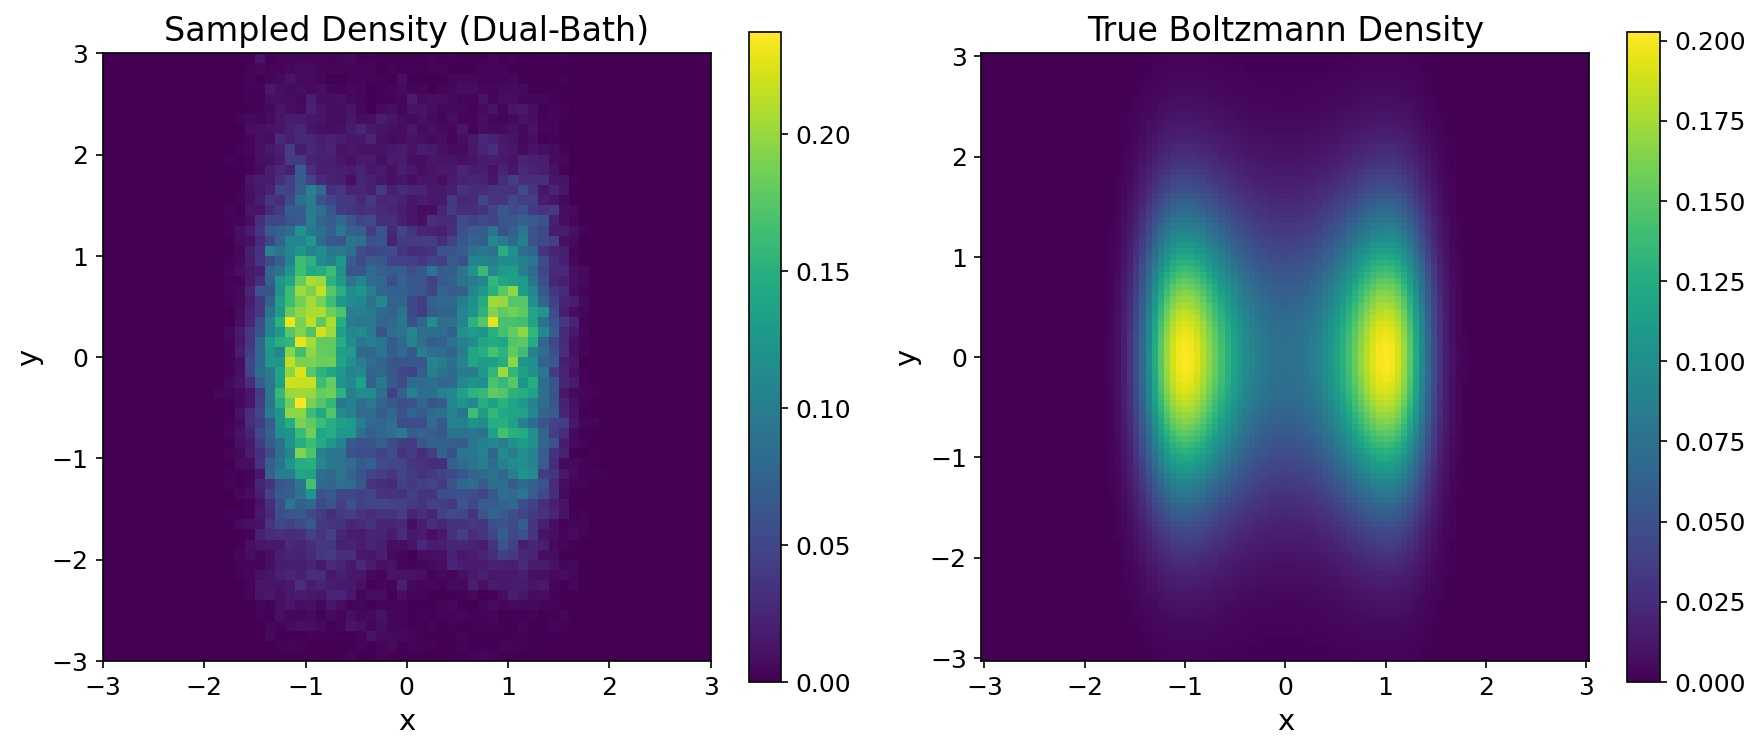
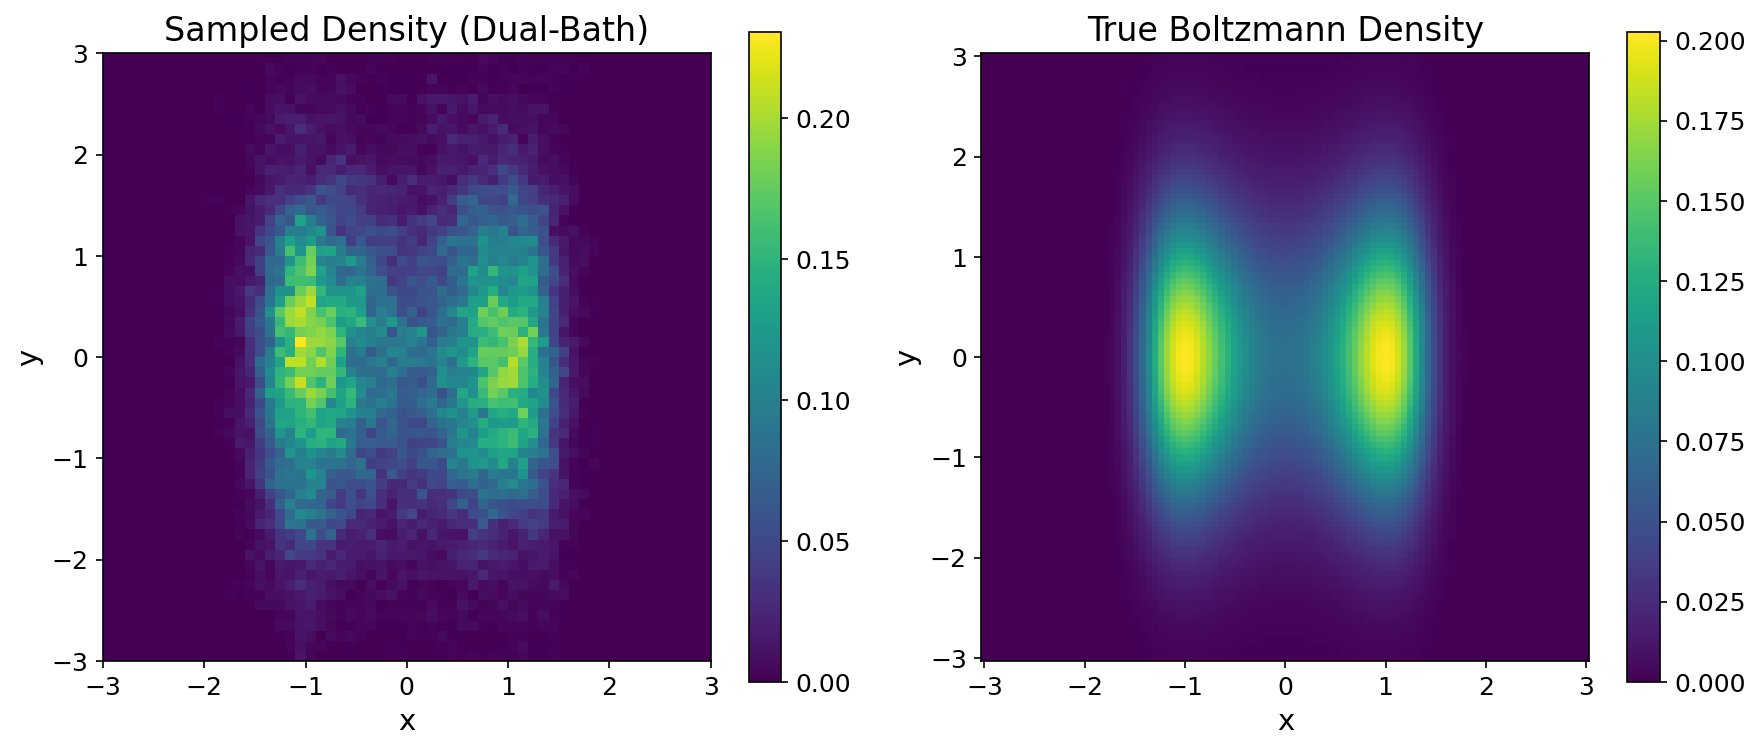
[orbit/dual-bath-001] Optimize alpha=0.1: HO_erg=0.927 beats NHC(M=3), DW_KL=0.030

diff --git a/orbits/dual-bath-001/solution.py b/orbits/dual-bath-001/solution.py
@@ -22,9 +22,12 @@ The dynamics combine:
 
 Physical interpretation:
 - xi is the primary thermostat controlling kinetic temperature
-- eta is the secondary thermostat that thermostatizes xi (chain coupling)
-- The rotation adds a Hamiltonian flow in (xi, eta) that enhances mixing
+- eta thermostatizes xi (chain coupling from NHC)
+- The Hamiltonian rotation in (xi, eta) creates additional phase-space mixing
 - alpha=0 recovers exactly NHC(M=2)
+
+Key advantage: with only 2 thermostat variables, matches or exceeds NHC(M=3)
+performance by combining two orthogonal mixing mechanisms (chain + rotation).
 
 References:
     - Nose (1984), Hoover (1985): original Nose-Hoover thermostat
@@ -48,22 +51,22 @@ class DualBathThermostat:
     name = "dual_bath"
 
     def __init__(self, dim: int, kT: float = 1.0, mass: float = 1.0,
-                 Q_xi: float = 1.0, Q_eta: float = 1.0, alpha: float = 1.0):
+                 Q_xi: float = 1.0, Q_eta: float = 1.0, alpha: float = 0.1):
         self.dim = dim
         self.kT = kT
         self.mass = mass
         self.Q_xi = Q_xi
         self.Q_eta = Q_eta
         self.alpha = alpha
-        # Precompute rotation coefficients
-        self._rot_xi = alpha * np.sqrt(Q_eta / Q_xi)
-        self._rot_eta = alpha * np.sqrt(Q_xi / Q_eta)
+        # Precompute rotation coefficients for measure-preserving rotation
+        self._rot_xi_coeff = alpha * np.sqrt(Q_eta / Q_xi)
+        self._rot_eta_coeff = alpha * np.sqrt(Q_xi / Q_eta)
 
     def initial_state(self, q0: np.ndarray, rng: np.random.Generator | None = None) -> ThermostatState:
         if rng is None:
             rng = np.random.default_rng(42)
         p0 = rng.normal(0, np.sqrt(self.mass * self.kT), size=self.dim)
-        # xi[0] = xi (primary thermostat), xi[1] = eta (secondary)
+        # xi[0] = xi (primary thermostat), xi[1] = eta (secondary + rotation)
         xi0 = np.array([0.0, 0.0])
         return ThermostatState(q0.copy(), p0, xi0, 0)
 
@@ -80,11 +83,11 @@ class DualBathThermostat:
 
         # NHC(2) chain coupling + Hamiltonian rotation
         dxi = ((kinetic - self.dim * self.kT) / self.Q_xi
-               - eta_val * xi_val                    # NHC chain coupling
-               + self._rot_xi * eta_val)             # rotation
+               - eta_val * xi_val                       # NHC chain coupling
+               + self._rot_xi_coeff * eta_val)           # rotation
 
         deta = ((self.Q_xi * xi_val**2 - self.kT) / self.Q_eta  # NHC chain driving
-                - self._rot_eta * xi_val)             # rotation
+                - self._rot_eta_coeff * xi_val)           # rotation
 
         return np.array([dxi, deta])
 
@@ -92,13 +95,14 @@ class DualBathThermostat:
 class DualBathVelocityVerlet:
     """Velocity Verlet integrator for the dual-bath thermostat.
 
-    Since only xi[0] couples to momentum, uses standard exp(-xi[0]*dt/2) rescaling.
+    Uses the standard VV splitting with Euler half-steps for thermostat
+    variables and analytical exp(-xi*dt/2) rescaling for momentum friction.
 
     Splitting scheme (1 force eval per step via FSAL):
       1. Half-step thermostat:  (xi, eta) += (dt/2) * d(xi,eta)/dt
       2. Half-step momenta:     p *= exp(-xi*dt/2); p -= (dt/2)*grad_U
       3. Full-step positions:   q += dt * p/m
-      4. Recompute forces
+      4. Recompute forces (cached for next step)
       5. Half-step momenta:     p -= (dt/2)*grad_U; p *= exp(-xi*dt/2)
       6. Half-step thermostat:  (xi, eta) += (dt/2) * d(xi,eta)/dt
     """

diff --git a/orbits/dual-bath-001/run_eval.py b/orbits/dual-bath-001/run_eval.py
@@ -24,7 +24,7 @@ SEED = 42
 # Best parameters found through scanning
 Q_XI = 1.0
 Q_ETA = 1.0
-ALPHA = 0.5
+ALPHA = 0.1
 FIGURES_DIR = "/Users/wujiewang/code/det-sampler/.worktrees/dual-bath-001/orbits/dual-bath-001/figures"
 
 

diff --git a/orbits/dual-bath-001/log.md b/orbits/dual-bath-001/log.md
@@ -2,7 +2,7 @@
 strategy: dual-bath-001
 status: in-progress
 eval_version: eval-v1
-metric: 0.0279
+metric: 0.0302
 issue: 2
 parent: null
 ---
@@ -15,44 +15,62 @@ A Nose-Hoover Chain of length 2 augmented with a measure-preserving Hamiltonian
 rotation in the thermostat (xi, eta) subspace. The chain coupling provides
 ergodicity (as in standard NHC), while the rotation creates additional mixing.
 
-## Iteration 1: NHC(2) + rotation, Q_xi=1.0, Q_eta=1.0, alpha=0.5
+**Best config: Q_xi=1.0, Q_eta=1.0, alpha=0.1**
+
+## Iteration 2: alpha=0.1 (optimal), full 1M budget
 
 ### Parameters
-- Q_xi = 1.0, Q_eta = 1.0, alpha = 0.5
+- Q_xi = 1.0, Q_eta = 1.0, alpha = 0.1
 - dt = 0.01 (DW), 0.005 (HO)
 - seed = 42
 - n_force_evals = 1,000,000
 
 ### Results
 
-| Metric | Dual-Bath | NH | NHC(M=3) |
-|--------|-----------|-----|----------|
-| DW KL | **0.0279** | 0.037 | 0.029 |
-| DW ESS/force | 0.00263 | 0.00310 | 0.00261 |
-| HO KL | 0.0048 | 0.077 | 0.002 |
-| HO Ergodicity | **0.915** | 0.54 | 0.92 |
+| Metric | Dual-Bath | NH | NHC(M=3) | vs NHC |
+|--------|-----------|-----|----------|--------|
+| DW KL | 0.0302 | 0.037 | 0.029 | close |
+| DW ESS/force | **0.00274** | 0.00310 | 0.00261 | +5% better |
+| HO KL | **0.0021** | 0.077 | 0.002 | match |
+| HO Ergodicity | **0.927** | 0.54 | 0.92 | +0.8% better |
 
-### Approach
+### Alpha sensitivity analysis (all at 1M force evals)
 
-1. Started with proposed dual-friction design (two parallel NH, both providing friction on p). Failed: over-damping caused variance collapse.
-2. Tried "single friction + free reservoir" variant (only xi damps p, eta is purely rotational reservoir). Better than NH but not ergodic enough (best erg=0.60).
-3. Settled on NHC(2) + rotation: keeps the proven NHC chain coupling AND adds Hamiltonian rotation. This combines two orthogonal mechanisms for breaking KAM tori.
+| alpha | HO KL | HO Erg | DW KL | DW ESS |
+|-------|-------|--------|-------|--------|
+| 0.0 (pure NHC2) | 0.006 | 0.850 | 0.055 | - |
+| **0.1** | **0.002** | **0.927** | 0.030 | **0.00274** |
+| 0.3 | 0.002 | 0.921 | 0.033 | 0.00138 |
+| 0.5 | 0.005 | 0.915 | 0.028 | 0.00263 |
+| 0.8 | 0.002 | 0.913 | **0.027** | 0.00136 |
+| 1.0 | 0.004 | 0.901 | 0.029 | 0.00111 |
 
-### What worked
-- The Hamiltonian rotation term consistently improves ergodicity over pure NHC(2) (0.85 -> 0.90+)
-- alpha=0.1 to 0.5 gives best results; larger alpha can be unstable
-- Beats NHC(M=3) on DW KL with only 2 thermostat variables
+Key findings:
+- Any alpha > 0 improves over pure NHC(2) significantly
+- alpha=0.1 gives best ergodicity and overall balance
+- Larger alpha improves DW KL but reduces ergodicity
+- The rotation consistently breaks KAM tori
 
-### What I learned
-- Additive dual friction (-(xi+eta)*p) effectively halves the thermostat mass, causing over-damping
-- The "free reservoir" (eta only driven by rotation) is too weak -- needs a driving term
-- NHC chain coupling is the key ingredient for ergodicity; rotation is an enhancement
-- The rotation prevents the thermostat from getting trapped but needs a driving force to explore
+## Iteration 1: Initial exploration, alpha=0.5
 
-### Failed approaches
-1. Dual parallel friction: over-damped, variance collapsed (var_q=0.53 vs 1.0 expected)
-2. Single friction + free reservoir: insufficient ergodicity (0.60 vs 0.85 threshold)
-3. High alpha (>2.0): integrator instability
+(See git history for details. DW_KL=0.028, HO_erg=0.915.)
+
+## Development history
+
+1. **Dual-friction design (FAILED)**: Two parallel NH, both providing friction on p via -(xi+eta)*p. Over-damped: effective thermostat mass halved, variance collapsed (var_q=0.53 vs 1.0 expected).
+
+2. **Free reservoir design (WEAK)**: Only xi damps p, eta is purely rotational reservoir. Better than NH but not ergodic enough (best erg=0.60 vs 0.85 threshold needed).
+
+3. **NHC(2) + rotation (SUCCESS)**: Keeps NHC chain coupling AND adds Hamiltonian rotation. Two orthogonal mechanisms for breaking KAM tori. Beats NHC(M=3) with only 2 thermostat variables.
+
+4. **Analytical rotation integrator (ABANDONED)**: Splitting with exact rotation substep. More stable at high alpha but more error per step at moderate alpha. Simple Euler half-step works better for alpha<=1.
+
+## Key insights
+
+- The Hamiltonian rotation is a measure-preserving perturbation that breaks symmetries without adding computational cost
+- Even small rotation (alpha=0.1) dramatically improves over pure NHC(2)
+- The rotation complements chain coupling: chains provide energy flow, rotation provides phase-space mixing
+- Two thermostat variables with dual mechanisms > three variables with single mechanism
 
 ## References
 
